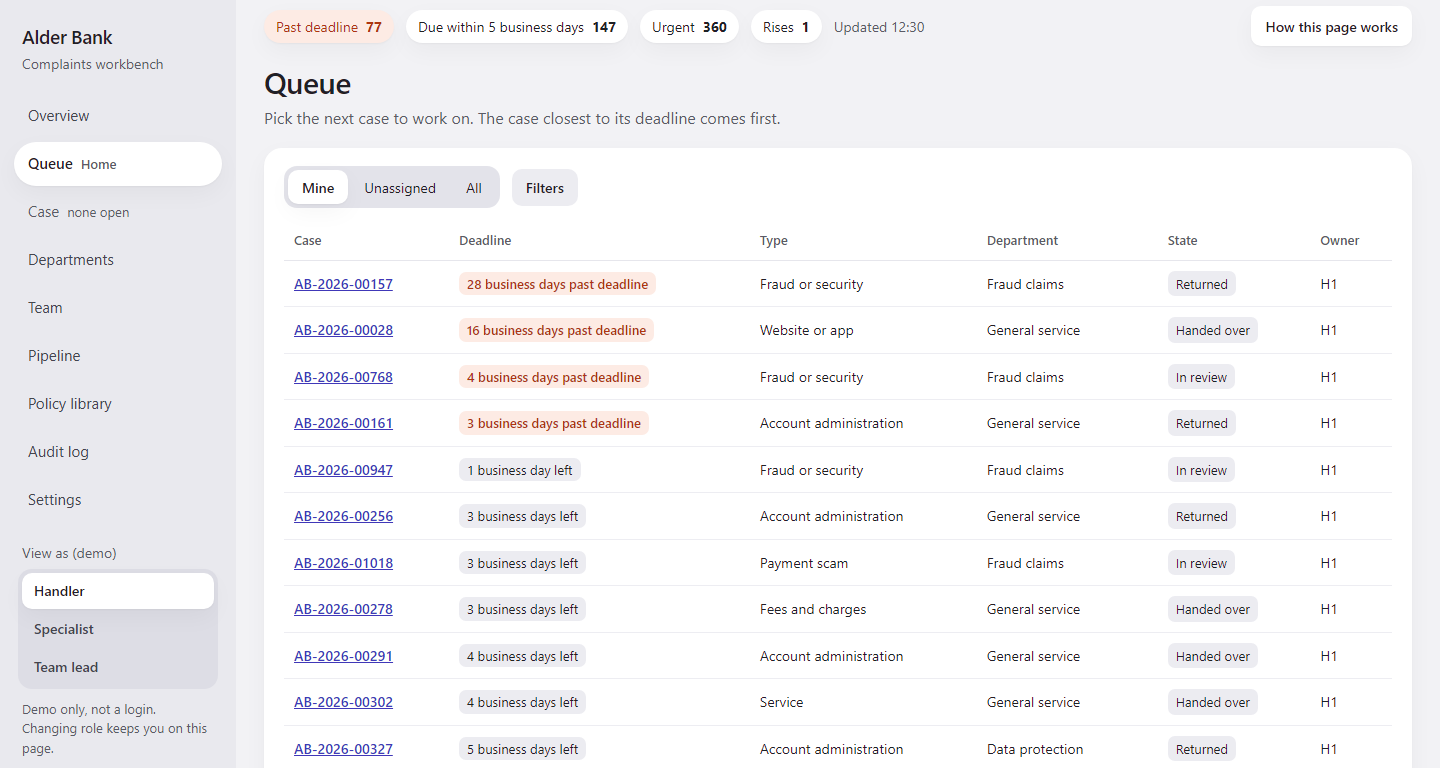
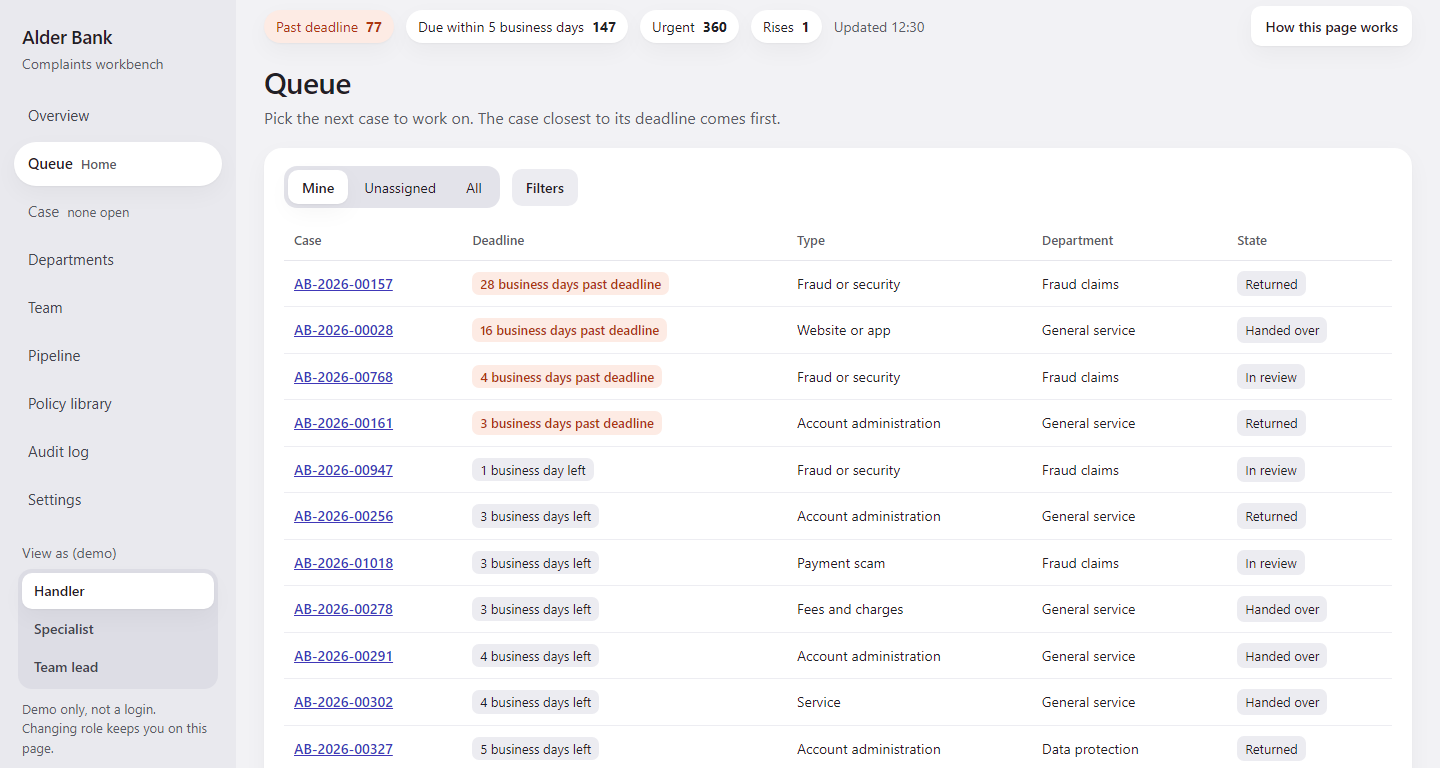
fix: calm pass on all views

diff --git a/workbench/templates/settings.html b/workbench/templates/settings.html
@@ -1,58 +1,56 @@
 {% extends "base.html" %}
 {% from "partials/help.html" import help_panel %}
 {% block title %}Settings{% endblock %}
-{% block strip %}{% include "partials/deadline_strip.html" %}{% endblock %}
 {% block purpose %}{{ content.views.settings.purpose }}{% endblock %}
 {% block hint %}{% endblock %}
 {% block help %}{{ help_panel("settings") }}{% endblock %}
-{% block content %}
-<section class="card" aria-labelledby="rules-h">
-  <h2 id="rules-h">Rules in use</h2>
-  <dl class="pairs">
-    <dt>Routing threshold</dt><dd>A complaint goes to a department only when the model is at least {{ cfg.routing_threshold }} sure; otherwise it shows as Needs routing.</dd>
-    <dt>Deadlines</dt><dd>Payment complaints: {{ cfg.deadlines.payment.business_days }} business days, or {{ cfg.deadlines.payment.extended_business_days }} when extended. Other complaints: {{ cfg.deadlines.other.weeks }} weeks.</dd>
-    <dt>Unusual rise</dt><dd>A department and type is flagged when this week has at least {{ cfg.rise.ratio }} times its usual weekly cases (average of the last {{ cfg.rise.baseline_weeks }} weeks) and at least {{ cfg.rise.minimum_cases }} cases.</dd>
-    <dt>Urgent</dt><dd>A case is urgent when its deadline is past or within {{ cfg.urgent.deadline_within_business_days }} business days, or its notes mention a vulnerable customer, money hardship or ongoing fraud. A person can also set it by hand, with a reason.</dd>
-    <dt>AI model</dt><dd>{{ cfg.model }}, prompt version {{ cfg.prompt_version }}.</dd>
-  </dl>
-</section>
-
-<section class="table-card" aria-labelledby="data-sources">
-  <h2 id="data-sources" tabindex="-1">Data sources</h2>
-  <div class="table-wrap">
-    <table class="case-table">
-      <thead><tr><th scope="col">Data</th><th scope="col">In this prototype</th><th scope="col">In a real bank</th><th scope="col">Personal data</th><th scope="col">Refresh</th></tr></thead>
-      <tbody>
-      {% for d in cfg.data_sources %}
-      <tr><th scope="row">{{ d.data }}</th><td>{{ d.prototype }}</td><td>{{ d.real_bank }}</td><td>{{ d.personal_data }}</td><td>{{ d.refresh }}</td></tr>
-      {% endfor %}
-      </tbody>
-    </table>
-  </div>
-  <p class="muted">The “real bank” column is an assumption about a typical bank, not a description of any actual one.</p>
-</section>
-
-<details class="card more">
-  <summary>Database notes</summary>
-  <ul>
-    <li>The tool reads the bank's systems and writes back only the handover it sends.</li>
-    <li>Personal details are masked before any text reaches the model.</li>
-    <li>The audit log accepts new rows only, enforced by a database trigger in the prototype.</li>
-    <li>SQLite suits one demo user. A real deployment would use the bank's own database with access by role.</li>
-    <li>Overview figures show their refresh time so nobody acts on stale counts.</li>
-  </ul>
-</details>
-
-<section class="card" aria-labelledby="add-h">
-  <h2 id="add-h">Add a test complaint</h2>
-  {% if added %}<p class="notice" role="status">Added. <a href="/cases/{{ added }}">Open {{ added }}</a></p>{% endif %}
-  {% if error %}<p class="notice" role="alert">{{ error }}</p>{% endif %}
-  <form method="post" action="/intake" class="intake-form">
-    <label for="text">Complaint text (fictional)</label>
-    <textarea id="text" name="text" rows="4" maxlength="{{ max_text }}" required>{{ text }}</textarea>
-    <label for="source">Where it came from</label>
-    <select id="source" name="source">{% for s in cfg.sources %}<option{% if source == s %} selected{% endif %}>{{ s }}</option>{% endfor %}</select>
-    <button type="submit" class="primary">Add test complaint</button>
-  </form>
+{% block content %}<section class="card" aria-label="Settings">
+  <details>
+    <summary>Rules</summary>
+    <dl class="pairs">
+      <dt>Routing threshold</dt><dd>A complaint goes to a department only when the model is at least {{ cfg.routing_threshold }} sure; otherwise it shows as Needs routing.</dd>
+      <dt>Deadlines</dt><dd>Payment complaints: {{ cfg.deadlines.payment.business_days }} business days, or {{ cfg.deadlines.payment.extended_business_days }} when extended. Other complaints: {{ cfg.deadlines.other.weeks }} weeks.</dd>
+      <dt>Unusual rise</dt><dd>A department and type is flagged when this week has at least {{ cfg.rise.ratio }} times its usual weekly cases (average of the last {{ cfg.rise.baseline_weeks }} weeks) and at least {{ cfg.rise.minimum_cases }} cases.</dd>
+      <dt>Urgent</dt><dd>A case is urgent when its deadline is past or within {{ cfg.urgent.deadline_within_business_days }} business days, or its notes mention a vulnerable customer, money hardship or ongoing fraud. A person can also set it by hand, with a reason.</dd>
+    </dl>
+  </details>
+  <details>
+    <summary>Model</summary>
+    <p>{{ cfg.model }}, prompt version {{ cfg.prompt_version }}.</p>
+  </details>
+  <details id="data-sources">
+    <summary>Data sources</summary>
+    <div class="table-wrap">
+      <table class="case-table">
+        <thead><tr><th scope="col">Data</th><th scope="col">In this prototype</th><th scope="col">In a real bank</th><th scope="col">Personal data</th><th scope="col">Refresh</th></tr></thead>
+        <tbody>
+        {% for d in cfg.data_sources %}
+        <tr><th scope="row">{{ d.data }}</th><td>{{ d.prototype }}</td><td>{{ d.real_bank }}</td><td>{{ d.personal_data }}</td><td>{{ d.refresh }}</td></tr>
+        {% endfor %}
+        </tbody>
+      </table>
+    </div>
+    <p class="muted">The “real bank” column is an assumption about a typical bank, not a description of any actual one.</p>
+    <h3>Database notes</h3>
+    <ul>
+      <li>The tool reads the bank's systems and writes back only the handover it sends.</li>
+      <li>Personal details are masked before any text reaches the model.</li>
+      <li>The audit log accepts new rows only, enforced by a database trigger in the prototype.</li>
+      <li>SQLite suits one demo user. A real deployment would use the bank's own database with access by role.</li>
+      <li>Overview figures show their refresh time so nobody acts on stale counts.</li>
+    </ul>
+  </details>
+  <details{% if added or error %} open{% endif %}>
+    <summary>Add a test complaint</summary>
+    {% if added %}<p class="notice" role="status">Added. <a href="/cases/{{ added }}">Open {{ added }}</a></p>{% endif %}
+    {% if error %}<p class="notice" role="alert">{{ error }}</p>{% endif %}
+    <form method="post" action="/intake" class="intake-form">
+      <label for="text">Complaint text (fictional)</label>
+      <textarea id="text" name="text" rows="4" maxlength="{{ max_text }}" required>{{ text }}</textarea>
+      <label for="source">Where it came from</label>
+      <select id="source" name="source">{% for s in cfg.sources %}<option{% if source == s %} selected{% endif %}>{{ s }}</option>{% endfor %}</select>
+      <button type="submit" class="primary">Add test complaint</button>
+    </form>
+  </details>
 </section>
 {% endblock %}

diff --git a/workbench/templates/audit.html b/workbench/templates/audit.html
@@ -1,31 +1,22 @@
 {% extends "base.html" %}
 {% from "partials/help.html" import help_panel %}
 {% block title %}Audit log{% endblock %}
-{% block strip %}{% include "partials/deadline_strip.html" %}{% endblock %}
 {% block purpose %}{{ content.views.audit.purpose }}{% endblock %}
 {% block hint %}{% endblock %}
 {% block help %}{{ help_panel("audit") }}{% endblock %}
-{% block content %}
-{% if not allowed %}
+{% block content %}{% if not allowed %}
 <p class="notice" role="status">The audit log is for the Team lead. Switch to Team lead (bottom left) to see it.</p>
 {% else %}
 <p class="chain {{ 'ok' if chain_ok else 'bad' }}" role="status"><b>{{ chain }}</b></p>
-<section class="table-card">
-  <form method="get" action="/audit" class="filter-form">
-    <label>Case <input name="case" value="{{ case }}" maxlength="14" placeholder="AB-2026-00001"></label>
-    <label>Person <select name="actor"><option value="">Anyone</option>{% for p in people %}<option{% if actor == p %} selected{% endif %}>{{ p }}</option>{% endfor %}</select></label>
-    <button type="submit">Filter</button>
-    {% if case or actor %}<a class="clear" href="/audit">Clear filters</a>{% endif %}
-  </form>
+<section class="table-card" aria-label="Audit entries">
   {% if rows %}
   <div class="table-wrap">
     <table class="case-table">
-      <thead><tr><th scope="col">When</th><th scope="col">Who</th><th scope="col">Case</th><th scope="col">Action</th><th scope="col">Detail</th></tr></thead>
+      <thead><tr><th scope="col">When</th><th scope="col">Who</th><th scope="col">Action</th><th scope="col">Case</th><th scope="col">Reason</th></tr></thead>
       <tbody>
       {% for r in rows %}
-      <tr><td>{{ r.at.replace("T", " ") }}</td><td>{{ r.actor_id }} <span class="muted">{{ r.role }}</span></td>
-        <td>{% if r.case_id %}<a class="plain-id" href="/cases/{{ r.case_id }}">{{ r.case_id }}</a>{% else %}–{% endif %}</td>
-        <td>{{ r.action }}</td><td>{{ r.what }}</td></tr>
+      <tr><td>{{ r.at.replace("T", " ") }}</td><td>{{ r.actor_id }} <span class="muted">{{ r.role }}</span></td><td>{{ r.action }}</td>
+        <td>{% if r.case_id %}<a class="plain-id" href="/cases/{{ r.case_id }}">{{ r.case_id }}</a>{% else %}–{% endif %}</td><td>{{ r.what }}</td></tr>
       {% endfor %}
       </tbody>
     </table>
@@ -38,6 +29,15 @@
   </nav>
   {% endif %}
   {% else %}<p class="empty">No entries match these filters.</p>{% endif %}
+  <details class="filters"{% if case or actor %} open{% endif %}>
+    <summary>Filters</summary>
+    <form method="get" action="/audit" class="filter-form">
+      <label>Case <input name="case" value="{{ case }}" maxlength="14" placeholder="AB-2026-00001"></label>
+      <label>Person <select name="actor"><option value="">Anyone</option>{% for p in people %}<option{% if actor == p %} selected{% endif %}>{{ p }}</option>{% endfor %}</select></label>
+      <button type="submit">Filter</button>
+      {% if case or actor %}<a class="clear" href="/audit">Clear filters</a>{% endif %}
+    </form>
+  </details>
 </section>
 {% endif %}
 {% endblock %}

diff --git a/workbench/templates/departments.html b/workbench/templates/departments.html
@@ -2,7 +2,6 @@
 {% from "partials/help.html" import help_panel %}
 {% from "partials/macros.html" import deadline_chip %}
 {% block title %}Departments{% endblock %}
-{% block strip %}{% include "partials/deadline_strip.html" %}{% endblock %}
 {% block purpose %}{{ content.views.departments.purpose }}{% endblock %}
 {% block hint %}{% endblock %}
 {% block help %}{{ help_panel("departments") }}{% endblock %}
@@ -13,15 +12,6 @@
       {% if source %}<li class="chip">Source: {{ source }} <a href="{{ clear('source') }}">Clear<span class="sr-only"> source</span></a></li>{% endif %}
       {% if type_ %}<li class="chip">Type: {{ type_ }} <a href="{{ clear('type') }}">Clear<span class="sr-only"> type</span></a></li>{% endif %}
     </ul>
-    <details class="filters">
-      <summary>Filter by source or type</summary>
-      <form method="get" action="/departments" class="filter-form">
-        <input type="hidden" name="department" value="{{ chosen }}">
-        <label>Source <select name="source"><option value="">Any</option>{% for s in cfg.sources %}<option{% if source == s %} selected{% endif %}>{{ s }}</option>{% endfor %}</select></label>
-        <label>Type <select name="type"><option value="">Any</option>{% for t in cfg.types %}<option{% if type_ == t %} selected{% endif %}>{{ t }}</option>{% endfor %}</select></label>
-        <button type="submit">Apply</button>
-      </form>
-    </details>
   </div>
   <div class="table-wrap">
     <table class="case-table">
@@ -34,6 +24,15 @@
       </tbody>
     </table>
   </div>
+    <details class="filters">
+      <summary>Filter by source or type</summary>
+      <form method="get" action="/departments" class="filter-form">
+        <input type="hidden" name="department" value="{{ chosen }}">
+        <label>Source <select name="source"><option value="">Any</option>{% for s in cfg.sources %}<option{% if source == s %} selected{% endif %}>{{ s }}</option>{% endfor %}</select></label>
+        <label>Type <select name="type"><option value="">Any</option>{% for t in cfg.types %}<option{% if type_ == t %} selected{% endif %}>{{ t }}</option>{% endfor %}</select></label>
+        <button type="submit">Apply</button>
+      </form>
+    </details>
 </section>
 
 <section class="card" aria-labelledby="wait-h">

diff --git a/workbench/templates/partials/case_header.html b/workbench/templates/partials/case_header.html
@@ -5,28 +5,30 @@
     <span class="status-label">{{ state_name[c.state] }}</span>
     <span>{{ c.type or "No type" }}</span>
     <span class="{{ 'deadline-past' if v.days < 0 else '' }}">{% if v.days < 0 %}{{ -v.days }} business days past deadline{% else %}{{ v.days }} business days left{% endif %}</span>
-    <span>Owner: {{ c.owner_id or "none" }}</span>
+    <span>Owner: {{ v.owner_name or c.owner_id or "none" }}</span>
     <span>Department: <b>{{ c.department or "not set" }}</b></span>
     {% if v.editable and v.all %}<a class="small" href="/cases/{{ v.id }}?step=1&amp;all=0">One step at a time</a>{% elif not v.all %}<a class="small" href="/cases/{{ v.id }}?all=1">Show everything</a>{% endif %}
   </p>
   {% if c.urgent %}<p class="urgent-line"><span class="urgent-tag">Urgent</span>{% if v.reasons %} {{ v.reasons|join(". ") }}{% endif %}</p>{% endif %}
   {% if v.worker and c.state in ("new", "in_review", "returned", "handed_over") %}
-  <div class="head-change">
-    <details><summary>Change urgent flag</summary>
+  <details class="inline"><summary>Change urgency or department</summary>
+    <div class="head-change">
+    <div><b>Urgency</b>
       <form {{ hx("/cases/" ~ v.id ~ "/urgent") }}>{{ hidden() }}
         <label>Mark as <select name="urgent"><option value="1"{% if c.urgent %} selected{% endif %}>Urgent</option><option value="0"{% if not c.urgent %} selected{% endif %}>Not urgent</option></select></label>
         <label>Reason <input name="reason" maxlength="500"></label>
         <button type="submit">Save</button>
       </form>
-    </details>
+    </div>
     {% if c.state in ("new", "in_review", "returned") %}
-    <details><summary>Change department</summary>
+    <div><b>Department</b>
       <form {{ hx("/cases/" ~ v.id ~ "/department") }}>{{ hidden() }}
         <label>Department <select name="department">{% for d in v.departments %}<option{% if d == c.department %} selected{% endif %}>{{ d }}</option>{% endfor %}</select></label>
         <button type="submit">Save</button>
       </form>
-    </details>
+    </div>
     {% endif %}
-  </div>
+    </div>
+  </details>
   {% endif %}
 </section>

diff --git a/workbench/templates/policies.html b/workbench/templates/policies.html
@@ -1,26 +1,28 @@
 {% extends "base.html" %}
 {% from "partials/help.html" import help_panel %}
 {% block title %}Policy library{% endblock %}
-{% block strip %}{% include "partials/deadline_strip.html" %}{% endblock %}
 {% block purpose %}{{ content.views.policies.purpose }}{% endblock %}
 {% block hint %}{% endblock %}
 {% block help %}{{ help_panel("policies") }}{% endblock %}
-{% block content %}
-<form method="get" action="/policies" role="search" class="search-bar">
+{% block content %}<form method="get" action="/policies" role="search" class="search-bar">
   <label for="q">Search the policy clauses</label>
   <div class="search-row"><input id="q" name="q" type="search" value="{{ q }}" maxlength="200" autocomplete="off"> <button type="submit" class="primary">Search</button></div>
 </form>
 {% if q %}<p class="muted" role="status">{{ n }} clause{{ "" if n == 1 else "s" }} found for “{{ q }}”.{% if n %} <a href="/policies">Show all clauses</a>{% endif %}</p>{% endif %}
-{% for section, items in groups.items() %}
-<section class="card" aria-labelledby="sec-{{ loop.index }}">
-  <h2 id="sec-{{ loop.index }}">{{ section }}</h2>
-  <ul class="clauses">
-    {% for c in items %}
-    <li id="{{ c.id }}"><b>{{ c.id }}</b> {{ c.title }}<br><span class="muted">{{ c.snippet }}</span></li>
-    {% endfor %}
-  </ul>
+{% if groups %}
+<section class="card" aria-label="Policy clauses">
+  {% for section, items in groups.items() %}
+  <details{% if q %} open{% endif %}>
+    <summary>{{ section }} <span class="muted">({{ items|length }} clause{{ "" if items|length == 1 else "s" }})</span></summary>
+    <ul class="clauses">
+      {% for c in items %}
+      <li id="{{ c.id }}"><b>{{ c.id }}</b> {{ c.title }}<br><span class="muted">{{ c.snippet }}</span></li>
+      {% endfor %}
+    </ul>
+  </details>
+  {% endfor %}
 </section>
 {% else %}
 <p class="empty">No clause matches. Try fewer or different words.</p>
-{% endfor %}
+{% endif %}
 {% endblock %}

diff --git a/workbench/templates/queue.html b/workbench/templates/queue.html
@@ -32,7 +32,7 @@
   {% if rows %}
   <div class="table-wrap">
     <table class="case-table">
-      <thead><tr><th scope="col">Case</th><th scope="col">Deadline</th><th scope="col">Type</th><th scope="col">Department</th><th scope="col">State</th><th scope="col">Owner</th></tr></thead>
+      <thead><tr><th scope="col">Case</th><th scope="col">Deadline</th><th scope="col">Type</th><th scope="col">Department</th><th scope="col">State</th>{% if f.owner != "me" %}<th scope="col">Owner</th>{% endif %}</tr></thead>
       <tbody>
       {% for r in rows %}{% set c = r.c %}
       <tr class="case-row" data-case="{{ c.id }}" data-days="{{ r.days }}">
@@ -41,8 +41,8 @@
         <td>{{ c.type or "–" }}</td>
         <td>{{ c.department or "Needs routing" }}</td>
         <td><span class="status-label">{{ state_name[c.state] }}</span></td>
-        <td>{% if c.owner_id %}{{ c.owner_id }}{% else %}
-          <form method="post" action="/cases/{{ c.id }}/assign"><input type="hidden" name="version" value="{{ c.version }}"><input type="hidden" name="next" value="{{ here }}"><button type="submit">Assign to me</button></form>{% endif %}</td>
+        {% if f.owner != "me" %}<td>{% if c.owner_name %}{{ c.owner_name }}{% else %}
+          <form method="post" action="/cases/{{ c.id }}/assign"><input type="hidden" name="version" value="{{ c.version }}"><input type="hidden" name="next" value="{{ here }}"><button type="submit">Assign to me</button></form>{% endif %}</td>{% endif %}
       </tr>
       {% endfor %}
       </tbody>

diff --git a/workbench/templates/team.html b/workbench/templates/team.html
@@ -1,7 +1,6 @@
 {% extends "base.html" %}
 {% from "partials/help.html" import help_panel %}
 {% block title %}Team{% endblock %}
-{% block strip %}{% include "partials/deadline_strip.html" %}{% endblock %}
 {% block purpose %}{{ content.views.team.purpose }}{% endblock %}
 {% block hint %}{% endblock %}
 {% block help %}{{ help_panel("team") }}{% endblock %}
@@ -24,11 +23,5 @@
   {% if not lead %}<p class="muted">Switch to Team lead (bottom left) to see the whole team.</p>{% endif %}
   <p class="muted">This page is for sharing out work. It does not show speed per case, because a speed target pushes people to approve AI drafts without checking.</p>
 </section>
-{% if lead %}
-<section class="card" aria-labelledby="load-h">
-  <h2 id="load-h">Open cases against the team average</h2>
-  {{ chart }}
-</section>
-{% endif %}
 <p class="source"><a href="/settings#data-sources">Where these numbers come from</a></p>
 {% endblock %}

diff --git a/workbench/static/app.js b/workbench/static/app.js
@@ -44,3 +44,15 @@
   if (dismiss) dismiss.addEventListener('click', hideHint);
   document.addEventListener('keydown', function (e) { if (e.key !== 'Tab' && e.key !== 'Shift') hideHint(); });
 })();
+
+// A link to a place inside a closed <details> (for example /settings#data-sources) opens it. Without script the summary is still there.
+(function () {
+  function openTarget() {
+    var t = location.hash.length > 1 && document.getElementById(decodeURIComponent(location.hash.slice(1)));
+    if (!t) return;
+    for (var d = t; d; d = d.parentElement) if (d.tagName === 'DETAILS') d.open = true;
+    t.scrollIntoView();
+  }
+  window.addEventListener('hashchange', openTarget);
+  openTarget();
+})();

diff --git a/workbench/static/app.css b/workbench/static/app.css
@@ -175,3 +175,7 @@ mark{background:#fff0b3;color:var(--ink);border-radius:3px}
 .chain{padding:10px 16px;border-radius:12px;background:white;margin:0 0 16px}
 .chain.bad{background:var(--tint);color:var(--accent-dark)}
 .intake-form{display:grid;gap:8px;max-width:640px}
+.card>details{padding:6px 0;border-bottom:1px solid #ededf2}
+.card>details:last-child{border-bottom:0}
+.card>details>summary{cursor:pointer;font-weight:600;padding:6px 0}
+.head-change>div{display:grid;gap:4px}

diff --git a/workbench/templates/pipeline.html b/workbench/templates/pipeline.html
@@ -1,7 +1,6 @@
 {% extends "base.html" %}
 {% from "partials/help.html" import help_panel %}
 {% block title %}Pipeline{% endblock %}
-{% block strip %}{% include "partials/deadline_strip.html" %}{% endblock %}
 {% block purpose %}{{ content.views.pipeline.purpose }}{% endblock %}
 {% block hint %}{% endblock %}
 {% block help %}{{ help_panel("pipeline") }}{% endblock %}

diff --git a/workbench/app.py b/workbench/app.py
@@ -183,7 +183,7 @@ def create_app(db_path="data/workbench.db", config_path="config/pipeline.yaml", 
             pg = min(max(1, int(one("page"))), pages)
         except ValueError:
             pg = 1
-        got = conn.execute(f"SELECT c.* FROM cases c WHERE {w} ORDER BY c.deadline, c.urgent DESC, c.id LIMIT ? OFFSET ?",
+        got = conn.execute(f"SELECT c.*, s.name AS owner_name FROM cases c LEFT JOIN staff s ON s.id = c.owner_id WHERE {w} ORDER BY c.deadline, c.urgent DESC, c.id LIMIT ? OFFSET ?",
                            (*args, PER_PAGE, (pg - 1) * PER_PAGE)).fetchall()
         rows = [{"c": r, "days": business_days_left(date.fromisoformat(r["deadline"]), today, hol)} for r in got]
         keep = {k: v for k, v in f.items() if v}
@@ -247,13 +247,9 @@ def create_app(db_path="data/workbench.db", config_path="config/pipeline.yaml", 
         actor = current_actor(request)
         with db() as conn:
             everyone = stats.team(conn, today)
-            avg = round(sum(r["open"] for r in everyone) / len(everyone), 1) if everyone else 0
             lead = actor.role == "team_lead"
             rows = everyone if lead else [r for r in everyone if r["id"] == actor.id]
-            items = [(r["name"], r["open"]) for r in everyone] + [("Team average", avg)]
-            title = "Open cases per person"
-            return page(request, conn, "team.html", rows=rows, lead=lead, avg=avg, unassigned=stats.unassigned(conn),
-                        chart=charts.bars(items, highlight="Team average", title=title, summary=stats.sentence("bars", {"title": title, "items": items})) if lead else "")
+            return page(request, conn, "team.html", rows=rows, lead=lead, unassigned=stats.unassigned(conn))
 
     @app.get("/pipeline", response_class=HTMLResponse)
     def pipeline(request: Request):

diff --git a/tests/e2e/test_calm_e2e.py b/tests/e2e/test_calm_e2e.py
@@ -1,0 +1,17 @@
+"""The guard that keeps pages simple. Run on its own: uv run pytest tests/e2e -o addopts=""."""
+import pytest
+
+
+@pytest.mark.parametrize("path", ["/", "/queue", "/cases/AB-2026-00768", "/departments", "/team", "/pipeline", "/policies", "/audit", "/settings"])
+def test_every_view_is_calm_above_the_fold(base, browser, path):
+    """At most 4 cards and 3 headings visible in the first 900px at 1440 wide."""
+    page = browser.new_page(viewport={"width": 1440, "height": 900})
+    page.context.add_cookies([{"name": "role", "value": "team_lead", "url": base}, {"name": "staff_id", "value": "T1", "url": base}])
+    page.goto(base + path)
+    page.wait_for_load_state("networkidle")
+    cards, heads = page.evaluate("""() => {
+      const seen = e => { const r = e.getBoundingClientRect(); return r.width > 0 && r.height > 0 && r.top < window.innerHeight; };
+      return [[...document.querySelectorAll('main .card, main .table-card')].filter(seen).length, [...document.querySelectorAll('main h2')].filter(seen).length];
+    }""")
+    assert cards <= 4 and heads <= 3, (path, cards, heads)
+    page.close()
